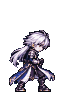
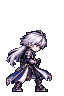
마검사: 프레임 정렬로 떨림 제거, 숨쉬기·내딛기·반동 등 실제 몸 움직임, 깜빡임 대신 번쩍임
Claude-Session: https://claude.ai/code/session_01V2XAFH1jK9F8DBetbmbk17

Changed region(s): [[0.0938, 0.3125, 0.875, 0.9688]]

diff --git a/mageblade/viewer.html b/mageblade/viewer.html
@@ -65,16 +65,16 @@ canvas { image-rendering: pixelated; display: block; background: var(--night); }
     if (!checker) { ctx.fillStyle = "#0d1a29"; ctx.fillRect(0, 0, w, h); return; }
     for (let y = 0; y < h; y += 8) for (let x = 0; x < w; x += 8) { ctx.fillStyle = ((x + y) / 8) % 2 ? "#c83cc8" : "#78e678"; ctx.fillRect(x, y, 8, 8); }
   }
-  function drawCell(ctx, src, sx, sy, sw, sh, ax, ay) {
+  function drawCell(ctx, src, sx, sy, sw, sh, ax, ay, mx = 0, my = 0) {
     const w = sw * Z, h = sh * Z;
     ctx.imageSmoothingEnabled = false;
-    paintBg(ctx, w, h);
+    paintBg(ctx, ctx.canvas.width, ctx.canvas.height);
     ctx.save();
     if (flip) { ctx.translate(ax * Z * 2, 0); ctx.scale(-1, 1); }      // 기준점 기준 좌우 반전
-    ctx.drawImage(src, sx, sy, sw, sh, 0, 0, w, h);
+    ctx.drawImage(src, sx, sy, sw, sh, mx * Z, my * Z, w, h);
     ctx.restore();
     if (guide) {
-      ctx.fillStyle = "rgba(228,179,133,.55)"; ctx.fillRect(0, ay * Z, w, 1);
+      ctx.fillStyle = "rgba(228,179,133,.55)"; ctx.fillRect(0, ay * Z, ctx.canvas.width, 1);
       ctx.fillStyle = "#ff4d4d"; ctx.fillRect(ax * Z - 4, ay * Z, 9, 1); ctx.fillRect(ax * Z, ay * Z - 4, 1, 9);
     }
   }
@@ -86,7 +86,7 @@ canvas { image-rendering: pixelated; display: block; background: var(--night); }
     const ms = over === undefined ? a.frameMs : Array.isArray(over) ? over : a.frames.map(() => over);
     const sec = document.createElement("section");
     const left = document.createElement("div"), right = document.createElement("div");
-    const play = mk(64, 96); left.appendChild(play);
+    const play = mk(96, 96); left.appendChild(play);          // 내딛기까지 보이게 재생 창은 가로 96
     const rule = a.holdLast ? "재생 후 마지막 유지" : a.loop ? "반복" : "한 번";
     right.innerHTML = `<h2>${NAMES[name]} <small>${name} · ${a.frames.length}프레임 · ${rule} · ${ms.join("/")}ms</small></h2>`;
     const strip = document.createElement("div"); strip.className = "strip";
@@ -99,7 +99,7 @@ canvas { image-rendering: pixelated; display: block; background: var(--night); }
     right.appendChild(strip);
     if (a.note) { const n = document.createElement("div"); n.className = "note"; n.textContent = "보정: " + a.note; right.appendChild(n); }
     sec.append(left, right); list.appendChild(sec);
-    players.push({ kind: "char", a, ms, play, cells, i: 0, t: 0, wait: 0 });
+    players.push({ kind: "char", name, a, ms, play, cells, i: 0, t: 0, wait: 0, stepAcc: 0 });
   }
   for (const [name, e] of Object.entries(fx.effects)) {
     const sec = document.createElement("section");
@@ -114,9 +114,14 @@ canvas { image-rendering: pixelated; display: block; background: var(--night); }
     players.push({ kind: "fx", name, e, ms: Array(e.frames).fill(e.frameMs), play, cells, i: 0, t: 0, wait: 0 });
   }
 
-  function paint(p, c, i) {
+  const mot = (n, k, i) => ((C.motion[n] || {})[k] || [])[i] || 0;
+  function paint(p, c, i, live) {
     const ctx = c.getContext("2d");
-    if (p.kind === "char") { const f = p.a.frames[i]; drawCell(ctx, img, f.x, f.y, f.w, f.h, 32, 92); }
+    if (p.kind === "char") {
+      const f = p.a.frames[i], n = p.name;                    // 재생 창에서는 몸 움직임(dx·dy)까지 보여 줌
+      if (live) drawCell(ctx, img, f.x, f.y, f.w, f.h, 48, 92, 16 + mot(n, "dx", i) + p.stepAcc, mot(n, "dy", i));
+      else drawCell(ctx, img, f.x, f.y, f.w, f.h, 32, 92);
+    }
     else { const e = p.e; drawCell(ctx, fxImg[p.name], i * e.frameW, 0, e.frameW, e.frameH, e.anchor[0], e.anchor[1]); }
   }
   function repaintStrips() { for (const p of players) p.cells.forEach((c, i) => paint(p, c, i)); }
@@ -127,17 +132,17 @@ canvas { image-rendering: pixelated; display: block; background: var(--night); }
     const dt = (t - last) * speed; last = t;
     for (const p of players) {
       const n = p.ms.length, loop = p.kind === "char" ? p.a.loop : p.e.loop, hold = p.kind === "char" && p.a.holdLast;
-      if (p.wait > 0) { p.wait -= dt; if (p.wait <= 0) { p.i = 0; p.t = 0; } }
+      if (p.wait > 0) { p.wait -= dt; if (p.wait <= 0) { p.i = 0; p.t = 0; p.stepAcc = 0; } }
       else {
         p.t += dt;
         while (p.t >= p.ms[p.i]) {
           p.t -= p.ms[p.i];
-          if (p.i < n - 1) p.i++;
+          if (p.i < n - 1) { p.i++; if (p.kind === "char") p.stepAcc += mot(p.name, "step", p.i); }
           else if (loop) p.i = 0;
           else { p.wait = hold ? 1400 : 600; p.t = 0; break; }     // 한 번 재생: 잠깐 멈췄다가 다시 보여 줌
         }
       }
-      paint(p, p.play, p.i);
+      paint(p, p.play, p.i, true);
     }
     requestAnimationFrame(tick);
   }

diff --git a/mageblade/game.js b/mageblade/game.js
@@ -61,7 +61,8 @@
   $("dbg").addEventListener("click", toggleDebug);
 
   // ---------- 애니메이션 재생기 ----------
-  function animator(name) { return { name, i: 0, t: 0, done: false }; }
+  function animator(name) { return { name, i: 0, t: 0, done: false, entered: -1 }; }
+  const motionAt = (name, key, i) => ((C.motion[name] || {})[key] || [])[i] || 0;
   function stepAnim(a, dt) {
     const A = ANIM[a.name];
     a.t += dt;
@@ -126,7 +127,7 @@
   function update(dt) {
     const sec = dt / 1000;
     if (game.choosing) return;
-    P.invuln = Math.max(0, P.invuln - dt);
+    P.invuln = Math.max(0, P.invuln - dt); P.flash = Math.max(0, (P.flash || 0) - dt);
     P.skillCd = Math.max(0, P.skillCd - dt);
 
     // 1) 입력 → 상태 (쓰러짐·피격이 우선, 공격·스킬 중엔 이동 애니메이션이 덮어쓰지 않음)
@@ -152,6 +153,11 @@
     P.x += P.vx * sec; P.vx *= Math.pow(0.002, sec);
     P.x = Math.max(16, Math.min(W - 16, P.x));
     stepAnim(P.anim, dt);
+    if (P.anim.entered !== P.anim.i) {           // 새 프레임에 들어설 때 실제 이동(내딛기 등)
+      P.anim.entered = P.anim.i;
+      P.x += motionAt(P.state, "step", P.anim.i) * P.face;
+      P.x = Math.max(16, Math.min(W - 16, P.x));
+    }
 
     // 2) 공격 판정 (설정한 프레임에서만)
     if (P.state === "attack" && C.attack.activeFrames.includes(P.anim.i) && !P.anim.done) {
@@ -201,7 +207,7 @@
       if (en.kb) { en.x += en.kb * sec; en.kb *= Math.pow(0.001, sec); if (Math.abs(en.kb) < 4) en.kb = 0; }
       else if (!game.over) { const d = Math.sign(P.x - en.x); en.face = d || en.face; en.x += d * en.speed * sec; }
       if (!game.over && P.invuln <= 0 && P.state !== "down" && overlap(box(P, C.player.hurtbox), box(en, C.enemy.hurtbox))) {
-        P.hp -= C.enemy.contactDamage; P.invuln = C.player.invulnMs; P.vx = Math.sign(P.x - en.x || 1) * C.player.knockback;
+        P.hp -= C.enemy.contactDamage; P.invuln = C.player.invulnMs; P.flash = C.hitFlashMs; P.vx = Math.sign(P.x - en.x || 1) * C.player.knockback;
         game.shake = 120;
         if (P.hp <= 0) { P.hp = 0; setState("down", true); game.over = true; $("over").hidden = false; }
         else setState("hit", true);                // 피격은 공격·스킬을 끊는다
@@ -259,12 +265,22 @@
     ctx.fillStyle = "#3d4462"; ctx.fillRect(0, GROUND, W, 1);
     ctx.fillStyle = "#353b57"; for (let x = 4; x < W; x += 24) ctx.fillRect(x, GROUND + 6, 10, 1);
   }
-  function drawSprite(ent, anim) {                // 기준점(32,92)을 엔티티 위치에 맞춤, 왼쪽은 좌우 반전
+  const flashCv = document.createElement("canvas"); flashCv.width = CW; flashCv.height = CH;
+  const fctx = flashCv.getContext("2d");
+  function drawSprite(ent, anim, flash) {         // 기준점(32,92)을 엔티티 위치에 맞춤, 왼쪽은 좌우 반전
     const f = ANIM[anim.name].frames[anim.i];
-    const x = Math.round(ent.x), y = Math.round(ent.y);
+    const x = Math.round(ent.x), y = Math.round(ent.y + motionAt(anim.name, "dy", anim.i));
+    const mx = motionAt(anim.name, "dx", anim.i);           // 몸 움직임 (바라보는 방향 기준)
     ctx.save();
     if (ent.face < 0) { ctx.translate(x, 0); ctx.scale(-1, 1); ctx.translate(-x, 0); }
-    ctx.drawImage(sheetImg, f.x, f.y, f.w, f.h, x - AX, y - AY, CW, CH);
+    let src = sheetImg, sx = f.x, sy = f.y;
+    if (flash) {                                  // 하얀 실루엣으로 번쩍
+      fctx.clearRect(0, 0, CW, CH); fctx.globalCompositeOperation = "source-over";
+      fctx.drawImage(sheetImg, f.x, f.y, CW, CH, 0, 0, CW, CH);
+      fctx.globalCompositeOperation = "source-atop"; fctx.fillStyle = "#f0e9f7"; fctx.fillRect(0, 0, CW, CH);
+      src = flashCv; sx = 0; sy = 0;
+    }
+    ctx.drawImage(src, sx, sy, CW, CH, x - AX + mx, y - AY, CW, CH);
     ctx.restore();
   }
   function drawFx(e) {
@@ -299,7 +315,7 @@
     // 레이어: 바닥 이펙트(장판) → 적 → 캐릭터 → 공중 이펙트(투사체·폭발) → 숫자
     for (const e of game.effects) if (e.kind === "field") drawFx(e);
     for (const en of game.enemies) drawEnemy(en);
-    if (!(P.invuln > 0 && P.state !== "down" && Math.floor(P.invuln / 70) % 2)) drawSprite(P, P.anim);
+    drawSprite(P, P.anim, P.flash > 0);
     for (const e of game.effects) if (e.kind !== "field") drawFx(e);
     ctx.font = "8px monospace"; ctx.textAlign = "center";
     for (const m of game.marks) { ctx.fillStyle = "#06060f"; ctx.fillText(m.txt, m.x + 1, m.y + 1); ctx.fillStyle = "#e4b385"; ctx.fillText(m.txt, m.x, m.y); }

diff --git a/mageblade/config.js b/mageblade/config.js
@@ -9,13 +9,26 @@ window.MAGEBLADE_CONFIG = {
 
   // 동작별 재생 속도 (프레임당 ms). 비워 두면 mageblade_sheet.json 값을 그대로 씀
   animations: {
-    idle:   { frameMs: 150 },
-    run:    { frameMs: 75 },
-    attack: { frameMs: [70, 80, 90, 120] },   // 들기 → 올리기 → 내려베기 → 되돌리기
-    skill:  { frameMs: [110, 140, 160] },
-    hit:    { frameMs: [90, 130] },
-    down:   { frameMs: [150, 170, 220] },
+    idle:   { frameMs: 200 },
+    run:    { frameMs: 80 },
+    attack: { frameMs: [90, 150, 110, 170] },  // 자세 잡기 → 치켜들기(멈칫) → 내려베기 → 마무리
+    skill:  { frameMs: [120, 180, 220] },
+    hit:    { frameMs: [110, 180] },
+    down:   { frameMs: [160, 210, 280] },
   },
+
+  // 그림 위에 더하는 실제 몸 움직임(px). x 는 바라보는 방향 기준 (+ = 앞)
+  //  dx/dy : 프레임마다 몸을 그리는 위치를 옮김 (발 기준점은 그대로, 판정에는 영향 없음)
+  //  step  : 그 프레임에 들어설 때 캐릭터가 실제로 이동하는 거리 (판정도 같이 이동)
+  motion: {
+    idle:   { dy: [0, 0, 0, 0, 0] },
+    run:    { dy: [0, -1, -2, -1, 0, -1, -2, -1] },      // 한 걸음마다 몸이 오르내림
+    attack: { dx: [0, -2, 3, 1], dy: [0, -1, 0, 0], step: [0, 0, 7, 2] },  // 뒤로 젖혔다가 앞으로 내딛으며 베기
+    skill:  { dx: [0, -2, -1], step: [0, 0, 0] },        // 쏘는 순간 반동
+    hit:    { dx: [-3, -1], dy: [-1, 0] },               // 맞고 뒤로 젖혀짐
+    down:   { dx: [-1, -3, -4], step: [0, -2, -2] },
+  },
+  hitFlashMs: 90,             // 맞는 순간 하얗게 번쩍 (깜빡이는 잔상 효과는 쓰지 않음)
 
   // 상태 우선순위: 높은 상태가 낮은 상태를 끊는다 (같은 순위는 못 끊음)
   priority: { idle: 0, run: 0, attack: 2, skill: 2, hit: 3, down: 4 },

diff --git a/mageblade/tools/build_sheet.py b/mageblade/tools/build_sheet.py
@@ -30,6 +30,8 @@ ANIMS = [  # 이름, 프레임 수, 프레임당 ms, 반복, 마지막 프레임
     ("hit", 2, 100, False, False),
     ("down", 3, 170, False, True),
 ]
+REGISTER = {"idle": "upper", "run": "head", "hit": "upper"}   # 프레임끼리 맞출 기준 (상체 / 머리)
+BREATH = [0, 0, 1, 1, 0]                                       # 대기 프레임별 어깨 내림(px)
 SOURCE_NOTE = {
     "run": "시트 달리기 1~8번. 1~7번은 시트에 검이 없어 8번의 검을 앞손 위치에 합성",
     "attack": "시트 공격 1~4번. 4번은 시트에 검이 없어 달리기 8번의 검을 합성",
@@ -125,6 +127,37 @@ for row, (name, n, ms, loop, hold) in enumerate(ANIMS):
         foot_small = np.where(op.any(1))[0].max()
         ox = int(round(AX - f["ax"]))            # 몸통 중심을 x=32에
         oy = (AY - 1) - foot_small               # 발바닥 픽셀을 y=91에
+        # 같은 동작 안에서 프레임끼리 머리·상체 위치 맞추기 (프레임마다 1~2px 어긋나면 잔상처럼 떨려 보임)
+        if name in REGISTER:
+            ys_, xs_ = np.where(op)
+            top, bot = ys_.min(), ys_.max()
+            band = (top, top + 16) if REGISTER[name] == "head" else (top, top + int((bot - top) * 0.45))
+            m = np.zeros((CELL_H + 40, CELL_W + 40), bool)
+            sel = op[band[0]:band[1]]
+            if k == 0:
+                ref = (sel, ox, oy + band[0])
+            else:
+                best, bdx = -1, 0
+                for dx in range(-4, 5):
+                    a_ = np.zeros_like(m); b_ = np.zeros_like(m)
+                    rs, rx, ry = ref
+                    a_[ry + 20:ry + 20 + rs.shape[0], rx + 20:rx + 20 + rs.shape[1]] = rs
+                    yy0 = oy + band[0] + 20; xx0 = ox + dx + 20
+                    b_[yy0:yy0 + sel.shape[0], xx0:xx0 + sel.shape[1]] = sel
+                    score = (a_ & b_).sum() / max(1, (a_ | b_).sum())
+                    if score > best + 1e-9 or (abs(score - best) < 1e-9 and abs(dx) < abs(bdx)):
+                        best, bdx = score, dx
+                ox += bdx
+                anim.setdefault("registerShiftX", [0] * n)[k] = int(bdx)
+        # 대기: 숨쉬기 — 허리 위(어깨·머리)를 1px 내렸다 올림 (발은 그대로)
+        if name == "idle" and BREATH[k]:
+            ys_ = np.where(op.any(1))[0]
+            waist = ys_.max() - int((ys_.max() - ys_.min()) * 0.42)
+            up = sm[:waist].copy(); upm = op[:waist]
+            sm2 = sm.copy(); sm2[:waist][upm] = 0
+            tgt = sm2[BREATH[k]:waist + BREATH[k]]
+            tgt[upm] = up[upm]
+            sm = sm2; op = sm[..., 3] > 0
         x0, y0, x1, y1 = ox, oy, ox + w, oy + h
         ys, xs = np.where(op)
         L, T, R, B = ox + xs.min(), oy + ys.min(), ox + xs.max(), oy + ys.max()

diff --git a/mageblade/tools/make_preview_gif.py b/mageblade/tools/make_preview_gif.py
@@ -1,0 +1,50 @@
+# 동작 움짤: config.js 의 재생 속도와 몸 움직임(dx·dy·step)을 그대로 적용해 6개 동작을 나란히 재생
+import json, os, re
+from PIL import Image, ImageDraw
+
+ROOT = os.path.abspath(os.path.join(os.path.dirname(__file__), ".."))
+AS = os.path.join(ROOT, "assets", "mageblade")
+m = json.load(open(os.path.join(AS, "mageblade_sheet.json"), encoding="utf-8"))
+S = Image.open(os.path.join(AS, "mageblade_sheet.png"))
+cfg_txt = open(os.path.join(ROOT, "config.js"), encoding="utf-8").read()
+
+
+def js_obj(key):  # config.js 에서 animations / motion 블록만 읽기 (간단한 파서)
+    i = cfg_txt.index(key + ": {")
+    depth, j = 0, cfg_txt.index("{", i)
+    for k in range(j, len(cfg_txt)):
+        depth += cfg_txt[k] == "{"; depth -= cfg_txt[k] == "}"
+        if depth == 0:
+            body = cfg_txt[j:k + 1]; break
+    body = re.sub(r"//[^\n]*", "", body)
+    body = re.sub(r"(\w+)\s*:", r'"\1":', body)
+    body = re.sub(r",(\s*[}\]])", r"\1", body)
+    return json.loads(body)
+
+
+anims, motion = js_obj("animations"), js_obj("motion")
+names = ["idle", "run", "attack", "skill", "hit", "down"]
+Z, DT, T, CW = 3, 20, 3000, 96
+frames = []
+for t in range(0, T, DT):
+    can = Image.new("RGBA", (CW * Z * 6, 96 * Z + 20), (13, 26, 41, 255)); d = ImageDraw.Draw(can)
+    for j, n in enumerate(names):
+        a = m["animations"][n]; ms = anims[n]["frameMs"]
+        ms = ms if isinstance(ms, list) else [ms] * len(a["frames"])
+        total = sum(ms)
+        tt = t % total if a["loop"] else t % (total + 900)
+        i, acc = 0, 0
+        while i < len(ms) - 1 and tt >= acc + ms[i]:
+            acc += ms[i]; i += 1
+        mo = motion.get(n, {})
+        dx = (mo.get("dx") or [0] * 9)[i] + sum((mo.get("step") or [0] * 9)[1:i + 1])
+        dy = (mo.get("dy") or [0] * 9)[i]
+        f = a["frames"][i]
+        cell = S.crop((f["x"], f["y"], f["x"] + 64, f["y"] + 96)).resize((64 * Z, 96 * Z), Image.NEAREST)
+        can.alpha_composite(cell, (j * CW * Z + (16 + dx) * Z, dy * Z))
+        d.rectangle([j * CW * Z, 92 * Z, (j + 1) * CW * Z - 1, 92 * Z], fill=(60, 70, 100, 255))
+        d.text((j * CW * Z + 8, 96 * Z + 4), f"{n} {i + 1}/{len(ms)}", fill=(168, 161, 210, 255))
+    frames.append(can.convert("RGB").quantize(160))
+frames[0].save(os.path.join(AS, "preview.gif"), save_all=True, append_images=frames[1:], duration=DT, loop=0)
+# 확인용: 공격 4프레임 + 달리기 4프레임 (움직임 적용)
+print("preview.gif", len(frames), "frames", frames[0].size)

diff --git a/mageblade/README.md b/mageblade/README.md
@@ -20,5 +20,10 @@
 ## 상태 규칙
 쓰러짐(4) > 피격(3) > 공격·스킬(2) > 달리기·대기(0). 공격·스킬·피격 중에는 이동 입력이 애니메이션을 덮어쓰지 않고, 끝나면 이동 중이면 달리기, 아니면 대기로 돌아가요. 피격은 공격·스킬을 끊고, 쓰러짐은 마지막 프레임을 유지해요.
 
+## 움직임
+- 같은 동작 안의 프레임은 머리·상체 위치를 서로 맞춰서(대기 ±0.5px, 달리기 ±1px) 떨림·잔상처럼 보이지 않게 했어요.
+- 대기는 어깨를 1px 내렸다 올리는 숨쉬기, 달리기는 걸음마다 몸이 오르내림, 공격은 뒤로 젖혔다가 앞으로 7px 내딛으며 베기, 스킬은 쏘는 순간 반동, 피격은 뒤로 젖혀짐 (`config.motion`).
+- 맞았을 때 깜빡이는 효과 대신 0.09초 하얀 번쩍임만 써요.
+
 ## 판정과 그림은 따로
 공격 판정은 `config.attack.hitbox`(3번째 프레임에만), 투사체·폭발 판정은 `config.skill.*.hitbox`. 이펙트 그림 크기(78×26, 76×60 등)와는 별개라 판정 보기(H)에서 빨간 상자(판정)와 파란 상자(그림 영역)로 구분돼요.
